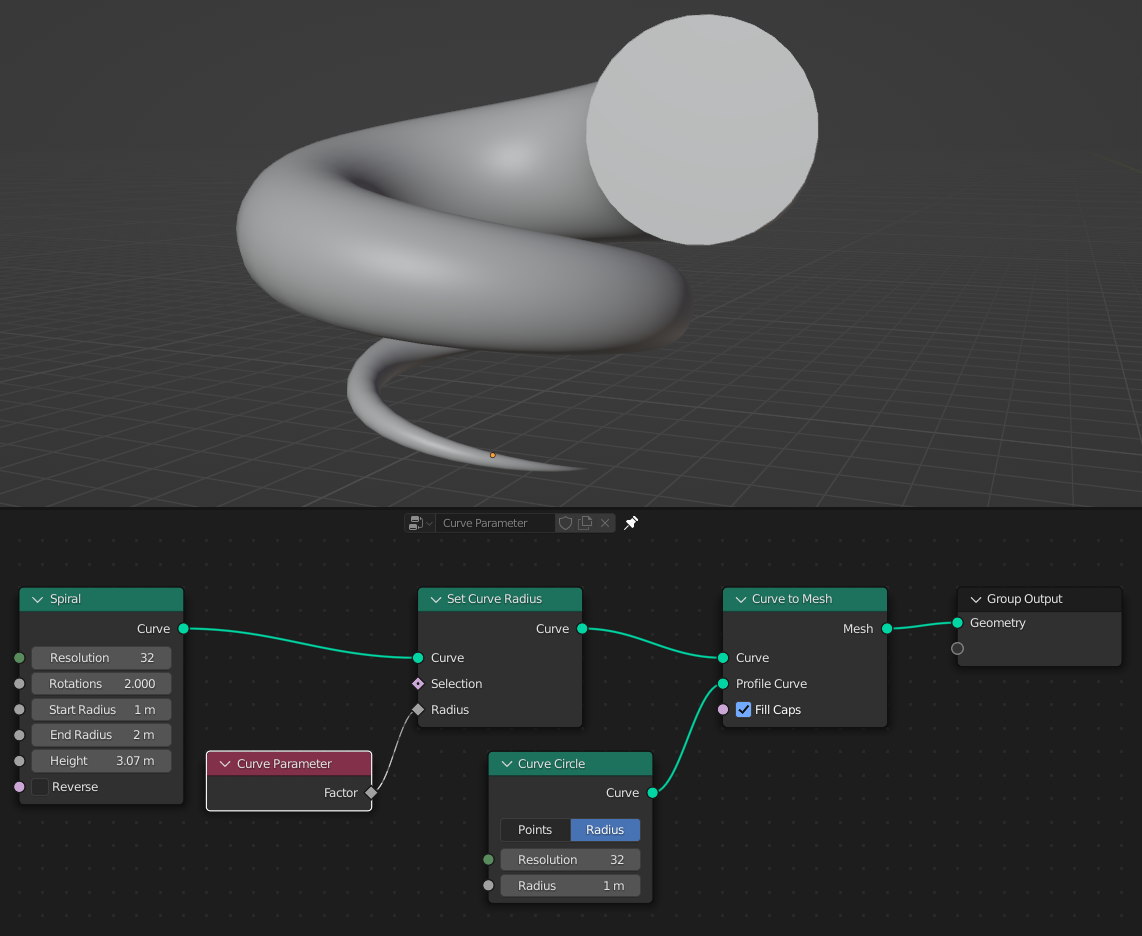
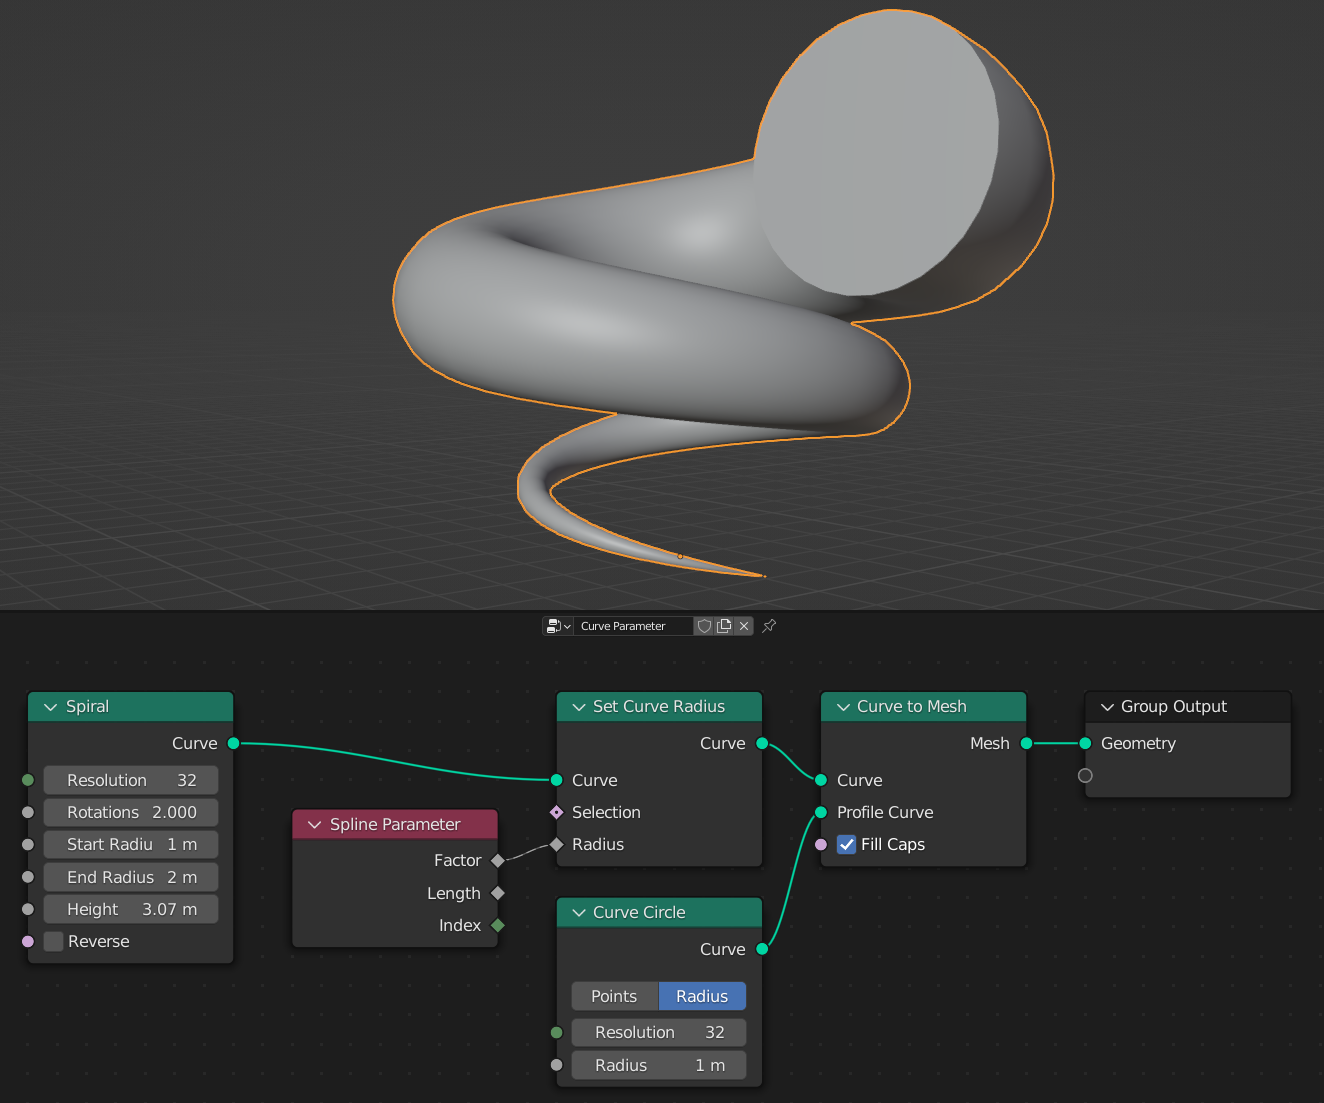
Geometry Nodes: Add Length Output to Curve Parameter Node
rB0c6b81585544636de41c3743adb693ebaed9a4a2

git-svn-id: https://svn.blender.org/svnroot/bf-manual/trunk@8850 c4de1f47-6596-e411-a384-0024e86c2797

diff --git a/blender_docs/manual/modeling/geometry_nodes/curve/curve_parameter.rst b/blender_docs/manual/modeling/geometry_nodes/curve/curve_parameter.rst
@@ -10,8 +10,8 @@ Curve Parameter Node
 
    Curve Parameter node.
 
-The *Curve Parameter* node outputs how far along each spline a control point is, with a value between
-zero and one. The output is different from dividing the index by the total number of control points,
+The *Curve Parameter* node outputs how far along each spline a control point is.
+The *Factor* output is different from dividing the index by the total number of control points,
 because the control points might not be equally spaced along the curve.
 
 The first value is zero, so the output corresponds to the length at the control point rather than
@@ -46,7 +46,14 @@ Outputs
 =======
 
 Factor
-   The portion of the total length of the spline at each control point.
+   When the node is used on the point domain, the value is the portion of the spline's
+   total length at each control point. On the spline domain it is the portion of the
+   curve's total length at the start of the spline.
+
+Length
+   When the node is used on the point domain, the value is the distance along the spline to each
+   control point. On the spline domain it is the length along the entire curve at the start
+   of the spline.
 
 
 Examples
